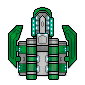
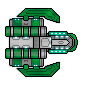
multiplayer

diff --git a/app/models/game.ts b/app/models/game.ts
@@ -16,12 +16,14 @@ export class Game {
     public socket: any;
 
     public spaceKey: Key = new Key(32);
+    public leftKey: Key = new Key(37);
+    public rightKey: Key = new Key(39);
+    public upKey: Key = new Key(38);
+    public downKey: Key = new Key(40);
 
     public constructor(innerWidth: number, innerHeight: number) {
         this.renderer = PIXI.autoDetectRenderer(innerWidth, innerHeight, { antialias: true }, false);
         $('.gameWrapper').append(this.renderer.view);
-
-        this.onStageClick.bind(this);
 
         this.addStage();
         this.defineTicker();
@@ -29,22 +31,29 @@ export class Game {
         this.spaceKey.press = () => {
             console.log('SpaceBar');
         };
+
+        this.leftKey.press = () => {
+            this.mainPlayer.moveToLeft();
+        }
+
+        this.upKey.press = () => {
+            this.mainPlayer.moveForward();
+        }
+
+        this.downKey.press = () => {
+            this.mainPlayer.moveBackward();
+        }
+
+        this.rightKey.press = () => {
+            this.mainPlayer.moveRight();
+        }
     }
 
     private addStage(): void {
         this.stage = new PIXI.Container();
         this.stage.interactive = true;
-        this.stage.on('click', (e: any) => {
-            this.onStageClick(e);
-        });
-        this.stage.on('tap', (e: any) => {
-            this.onStageClick(e);
-        });
     }
 
-    public onStageClick(e: any): void {
-        this.mainPlayer.moveTo(e.data.global.x, e.data.global.y);
-    }
 
     public loadMainPlayer(item: any): void {
         this.mainPlayer = new Player(item.myself);

diff --git a/app/models/player.ts b/app/models/player.ts
@@ -20,7 +20,7 @@ export class Player implements Renderable {
         this.name = data.name;
 
         Socket.getInstance().on('player.' + this.id + '.moved', (data: any) => {
-            //this.onMove(data);
+            this.onMove(data);
         });
     }
 
@@ -47,10 +47,29 @@ export class Player implements Renderable {
         Socket.getInstance().emit('move', { x: x, y: y });
     }
 
+    public moveToLeft(): void {
+        Socket.getInstance().emit('moveLeft');
+    }
+
+    public moveForward(): void {
+        Socket.getInstance().emit('moveForward');
+    }
+
+    public moveBackward(): void {
+        Socket.getInstance().emit('moveBackward');
+    }
+
+    public moveRight(): void {
+        Socket.getInstance().emit('moveRight');
+    }
+
     public onMove(data: any): void {
         this.position.x = data.position.x;
         this.position.y = data.position.y;
+        this.angle = data.angle;
+        this.item.anchor.set(0.5);
         this.item.x = this.position.x;
         this.item.y = this.position.y;
+        this.item.rotation = this.angle;
     }
 }

diff --git a/app/models/socket.ts b/app/models/socket.ts
@@ -15,6 +15,7 @@ export class Socket {
 
     public constructor() {
         this.socket = io.connect('http://192.168.1.76:8080');
+        PIXI.loader.add('/img/char.json').load();
     }
 
     public onWorldReady(callback: (data: any) => void) {
@@ -25,14 +26,12 @@ export class Socket {
 
     public onPlayerReady(callback: (data: any) => void) {
         this.socket.on('connected', function (data: any) {
-            PIXI.loader.add('/img/char.json').load();
             callback(data);
         });
     }
 
     public onNewPlayerReady(callback: (data: any) => void) {
         this.socket.on('newPlayerConnected', function (data: any) {
-            PIXI.loader.add('/img/char.json').load();
             callback(data);
         });
     }
@@ -42,7 +41,7 @@ export class Socket {
         this.socket.on(event, callback);
     }
 
-    public emit(event: string, data: any) {
+    public emit(event: string, data: any = undefined) {
         console.log('Emited event', event, data);
         this.socket.emit(event, data);
     }

diff --git a/app/home/home.html b/app/home/home.html
@@ -1,8 +1,9 @@
 <div class='playerDebug' *ngIf="game && game.mainPlayer">
-    {{ game.mainPlayer.id }} x: {{ game.mainPlayer.position.x }}, y: {{ game.mainPlayer.position.y }}
+    {{ game.mainPlayer.id }} x: {{ game.mainPlayer.position.x }}, y: {{ game.mainPlayer.position.y }}, °: {{ game.mainPlayer.angle
+    }}
     <hr />
     <ul *ngFor="let player of game.otherPlayers">
-        <li>{{ game.player.id }} x: {{ game.player.position.x }}, y: {{ game.player.position.y }}</li>
+        <li>{{ player.id }} x: {{ player.position.x }}, y: {{ player.position.y }}, °: {{ player.angle }}</li>
     </ul>
 </div>
 <div class="gameWrapper">

diff --git a/app/interaction/key.ts b/app/interaction/key.ts
@@ -29,7 +29,7 @@ export class Key {
     }
 
     public downHandler(event: any): void {
-        console.log("downHandler");
+        console.log("downHandler", event.keyCode);
         if (event.keyCode === this.code) {
             if (this.isDown && this.press) this.press();
             this.isDown = false;
